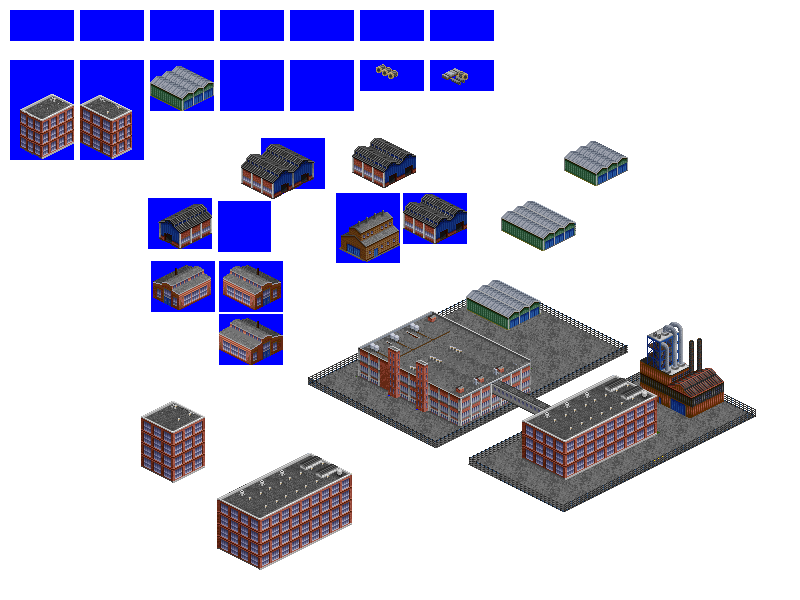
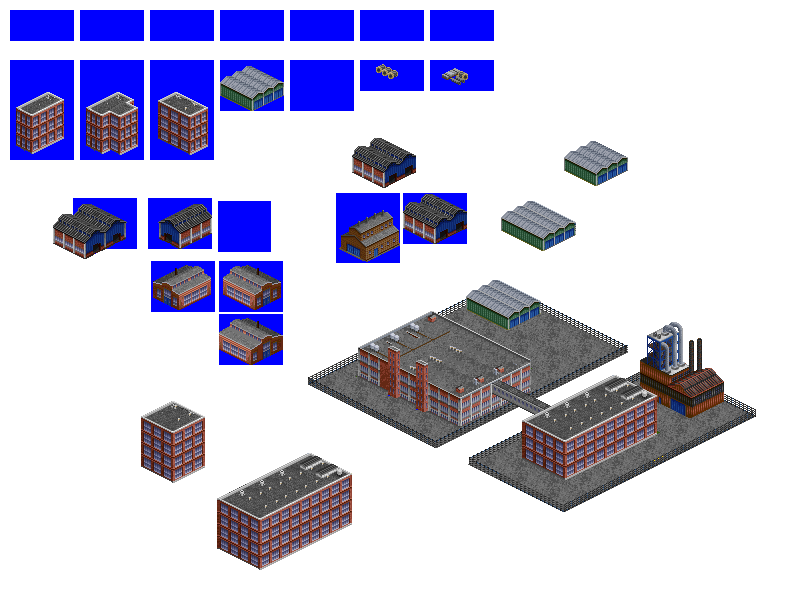
Change: WIP on Component Factory sprites

Changed region(s): [[0.0, 0.09, 0.375, 0.27], [0.2812, 0.21, 0.4062, 0.33], [0.0625, 0.33, 0.1875, 0.45]]

diff --git a/src/industries/component_factory.py b/src/industries/component_factory.py
@@ -39,7 +39,7 @@ spriteset_2 = industry.add_spriteset(
     sprites=[(80, 60, 64, 100, -31, -66)],
 )
 spriteset_3 = industry.add_spriteset(
-    sprites=[(150, 60, 64, 51, -31, -20)],
+    sprites=[(150, 60, 64, 100, -31, -66)],
 )
 spriteset_4 = industry.add_spriteset(
     sprites=[(220, 60, 64, 51, -31, -20)],
@@ -61,7 +61,7 @@ sprite_smoke = industry.add_smoke_sprite(
 )
 
 industry.add_spritelayout(
-    id='component_factory_spritelayout_large_building',
+    id='component_factory_spritelayout_large_building_1',
     ground_sprite=spriteset_ground,
     ground_overlay=spriteset_ground_overlay,
     building_sprites=[spriteset_1],
@@ -69,18 +69,18 @@ industry.add_spritelayout(
     fences=['nw', 'ne', 'se', 'sw']
 )
 industry.add_spritelayout(
-    id='component_factory_spritelayout_2',
+    id='component_factory_spritelayout_large_building_2',
     ground_sprite=spriteset_ground,
     ground_overlay=spriteset_ground_overlay,
     building_sprites=[spriteset_2],
     fences=['nw', 'ne', 'se', 'sw']
 )
 industry.add_spritelayout(
-    id='component_factory_spritelayout_3',
+    id='component_factory_spritelayout_large_building_3',
     ground_sprite=spriteset_ground,
     ground_overlay=spriteset_ground_overlay,
     building_sprites=[spriteset_3],
-    fences=['nw', 'ne', 'se']
+    fences=['nw', 'ne', 'se', 'sw']
 )
 industry.add_spritelayout(
     id='component_factory_spritelayout_4',
@@ -113,21 +113,25 @@ industry.add_spritelayout(
 
 industry.add_industry_layout(
     id='component_factory_industry_layout_1',
-    layout=[(0, 0, 'component_factory_tile_1', 'component_factory_spritelayout_large_building'),
-            (0, 1, 'component_factory_tile_1', 'component_factory_spritelayout_large_building'),
-            (0, 2, 'component_factory_tile_1', 'component_factory_spritelayout_large_building'),
-            (0, 3, 'component_factory_tile_1', 'component_factory_spritelayout_3'),
-            (1, 0, 'component_factory_tile_1', 'component_factory_spritelayout_large_building'),
-            (1, 1, 'component_factory_tile_1', 'component_factory_spritelayout_2'),
-            (1, 2, 'component_factory_tile_1', 'component_factory_spritelayout_3'),
-            (1, 3, 'component_factory_tile_1', 'component_factory_spritelayout_3'),
-            (2, 0, 'component_factory_tile_1', 'component_factory_spritelayout_large_building'),
-            (2, 1, 'component_factory_tile_1', 'component_factory_spritelayout_7'),
+    layout=[(0, 0, 'component_factory_tile_1', 'component_factory_spritelayout_large_building_2'),
+            (0, 1, 'component_factory_tile_1', 'component_factory_spritelayout_large_building_3'),
+            (0, 2, 'component_factory_tile_1', 'component_factory_spritelayout_large_building_2'),
+            (0, 3, 'component_factory_tile_1', 'component_factory_spritelayout_large_building_3'),
+            (0, 4, 'component_factory_tile_1', 'component_factory_spritelayout_large_building_3'),
+            (1, 0, 'component_factory_tile_1', 'component_factory_spritelayout_large_building_1'),
+            (1, 1, 'component_factory_tile_1', 'component_factory_spritelayout_4'),
+            (1, 2, 'component_factory_tile_1', 'component_factory_spritelayout_6'),
+            (1, 3, 'component_factory_tile_1', 'component_factory_spritelayout_4'),
+            (1, 4, 'component_factory_tile_1', 'component_factory_spritelayout_4'),
+            (2, 0, 'component_factory_tile_1', 'component_factory_spritelayout_large_building_2'),
+            (2, 1, 'component_factory_tile_1', 'component_factory_spritelayout_large_building_3'),
             (2, 2, 'component_factory_tile_1', 'component_factory_spritelayout_6'),
             (2, 3, 'component_factory_tile_1', 'component_factory_spritelayout_6'),
-            (3, 0, 'component_factory_tile_1', 'component_factory_spritelayout_large_building'),
-            (3, 1, 'component_factory_tile_1', 'component_factory_spritelayout_large_building'),
-            (3, 2, 'component_factory_tile_1', 'component_factory_spritelayout_4'),
-            (3, 3, 'component_factory_tile_1', 'component_factory_spritelayout_3'),
+            (2, 4, 'component_factory_tile_1', 'component_factory_spritelayout_6'),
+            (3, 0, 'component_factory_tile_1', 'component_factory_spritelayout_large_building_1'),
+            (3, 1, 'component_factory_tile_1', 'component_factory_spritelayout_4'),
+            (3, 2, 'component_factory_tile_1', 'component_factory_spritelayout_6'),
+            (3, 3, 'component_factory_tile_1', 'component_factory_spritelayout_7'),
+            (3, 4, 'component_factory_tile_1', 'component_factory_spritelayout_7'),
             ]
 )
